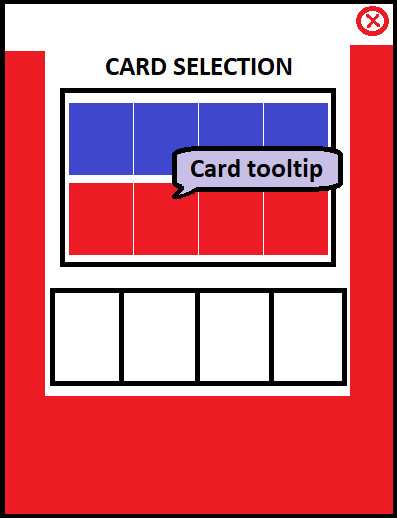
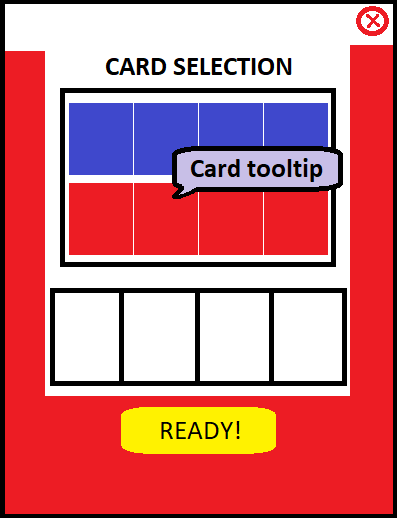
Added friend list and friendly challenge mechanics

Changed region(s): [[0.3023, 0.7722, 0.6952, 0.8958]]

diff --git a/Docs/GameDesignDocument.md b/Docs/GameDesignDocument.md
@@ -237,6 +237,14 @@ After every PvP match, the player will be granted coins: 15 if they win, 5 if th
 ##### Packs
 There are 2 card packs that can be bought in the Shop (see Interfaces for the Shop), one providing 1 card for 100 coins and one providing 3 cards for 250 coins. Cards are randomized based on their rarity: each card has 95% of being common and 5% of being rare.
 
+##### Friends
+Player can add friends to their Friend List. They can do so in 2 ways: by adding their last opponent or by searching for a user by nickname. Both these options can be found at the bottom of the Friend List Interface. There are 2 ways a player can interact with a friend:
+By chatting through a simple, transparent pop up at the bottom left of the screen
+By dueling.
+In case a player challenges another, the other player will see a "Challenge pop-up" appear, and they can decide if to accept or refuse. If they accept, both players will be sent to the "Card selection" interface and, once both have pressed the "READY!" button, the match will start. The first of the two players to press "READY!" - or both in case the game takes time to load - will see the button greyed out.
+
+![An example of the friendly challenge pop-up](pictures/friend_challenge.png)
+
 ### 4.3. Controls
 The game is controlled through the phone's touch screen.
 
